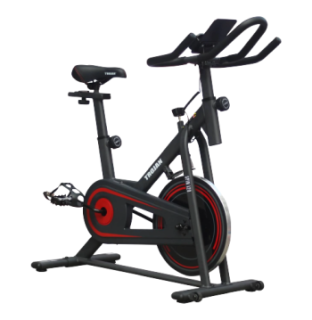
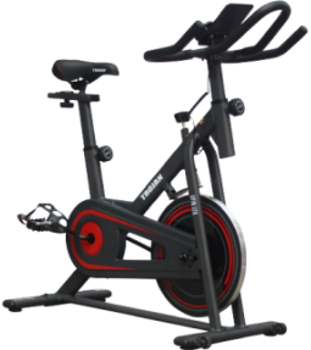
image scaling

diff --git a/Window.py b/Window.py
@@ -723,6 +723,7 @@ class CartWindow(Window):
       lblProduct = QLabel(self)
       lblProduct.setMaximumSize(MAX_HEIGHT_ITEM_CART,MAX_HEIGHT_ITEM_CART)
       lblProduct.setPixmap(mainImage)
+      lblProduct.setScaledContents(True)
       hItemBox.addWidget(lblProduct)
 
       #name and price 

diff --git a/ItemGrid.py b/ItemGrid.py
@@ -79,6 +79,7 @@ class itemGrid(QWidget):
       lblProduct = QLabel(self)
       lblProduct.setAlignment(Qt.AlignCenter)
       lblProduct.setPixmap(mainImage)
+      lblProduct.setScaledContents(True)
       vItemBox.addWidget(lblProduct)
 
       #wishlist and carts
